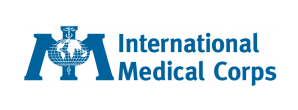
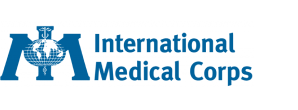
swipper

Changed region(s): [[0.0, 0.2182, 0.9362, 0.7909]]

diff --git a/src/sass/components/_support-Ukraine.scss b/src/sass/components/_support-Ukraine.scss
@@ -1,82 +1,29 @@
-//  .support__container {
-//    position: relative;
-
-//    width: 335px;
-//    height: 352px;
-
-//    background-image: radial-gradient(183.6% 183.01% at 59.76% -23.42%,
-//        #4f2ee8 18.03%,
-//        #ffffff 100%);
-//    box-shadow: 0px 10px 10px rgba(245, 245, 247, 0.1);
-//    border-radius: 16px;
-
-//    margin-left: auto;
-//    margin-right: auto;
-//    overflow: hidden;
-//  }
-
-//  .support__title {
-//    font-weight: 700;
-//    font-size: 28px;
-//    line-height: calc(32 / 28);
-//    letter-spacing: -0.04em;
-//    color: white;
-
-//    padding-left: 40px;
-//    padding-top: 24px;
-//  }
-
-//  .support__icon {
-//    position: absolute;
-//    top: 24px;
-//    margin-left: 12px;
-//  }
-
-//  .support__list {
-//    padding-top: 40px;
-//    padding-bottom: 16px;
-//  }
-
-//  .support_btn {
-//    display: flex;
-//    align-items: center;
-//    justify-content: center;
-
-//    position: absolute;
-//    bottom: 20px;
-//    left: 50%;
-//    transform: translateX(-50%);
-
-//    width: 38px;
-//    height: 38px;
-//    padding: 1px;
-//    border-radius: 20px;
-//    border: none;
-//  }
 
 .support__container {
   // margin: 0 auto;
   padding: 24px 40px 20px 40px;
+  margin-left: 24px;
   box-shadow: 0px 10px 10px rgba(245, 245, 247, 0.1);
   border-radius: 16px;
   max-width: 335px;
-   height: 352px;
+  height: 352px;
   height: 100%;
-  overflow-y: scroll;
+  // overflow-y: scroll;
   background-image: radial-gradient(183.6% 183.01% at 59.76% -23.42%,
-                #4f2ee8 18.03%,
-                #ffffff 100%);
-        
+      #4f2ee8 18.03%,
+      #ffffff 100%);
 
   @include _tablet {
     // height: 472px;
-    padding-bottom: 14px;
+     padding-bottom: 14px;
+    
   }
 
   @include _desktop {
     max-width: 356px;
-     height: 490px;
+    height: 490px;
     padding-bottom: 24px;
+    
   }
 }
 
@@ -94,13 +41,41 @@
 
 .support__list {
   margin-bottom: 16px;
+  overflow: hidden;
+  height: 188px;
 
   @include _tablet {
     margin-bottom: 32px;
+    height: 292px;
   }
 
   @include _desktop {
     margin-bottom: 40px;
+  
+  }
+}
+
+.support__wrapper {
+  position: relative;
+  width: 335px;
+  height: 352px;
+  padding: 24px 40px;
+  background: radial-gradient(183.6% 183.01% at 59.76% -23.42%, var(--color-blue) 18.03%, var(--color-white) 100%);
+  box-shadow: 0px 10px 10px rgba(245, 245, 247, 0.1);
+  border-radius: 16px;
+
+  @media screen and (max-width: 767.98px) {
+    margin: 0 auto;
+  }
+
+  @media screen and (min-width: 768px) {
+    width: 335px;
+    min-height: 472px;
+  }
+
+  @media screen and (min-width: 1440px) {
+    width: 356px;
+    height: 490px;
   }
 }
 
@@ -123,9 +98,12 @@
 
 .support__img {
   filter: grayscale(100%) brightness(0) invert(100%);
+  height: 32px;
 }
 
 .support__btn {
+  width: 32px;
+  height: 32px;
   display: flex;
   margin-left: auto;
   margin-right: auto;

diff --git a/src/js/render-support-Ukraine.js b/src/js/render-support-Ukraine.js
@@ -1,45 +1,39 @@
 
-
-import { arrayFunds } from "./support-list";
+ import { arrayFunds } from "./support-list";
 
 const supportListEl = document.querySelector('.js_support_list');
-const supportBtnEl = document.querySelector('.js_support_btn');
 
-// supportBtnEl.addEventListener('click', renderMoreFoundations);
 
-const markup = arrayFunds.map(({ img, title, url }, index) => {
-    const number = (index + 1).toString().padStart(2, '0');
-    
-    
-    return `<li class="support__item"><a href="${url}" class="support__link" aria-label="${title}" target="_blank" rel="noopener norefferer nofollow">
-    <p class="support__number">${number}</p><img class="support__img" src= ${img} alt="${title}"/></a></li>`
-});
-   console.log(markup);
-
-let startIndex = 0;
-
-renderMarkup(markup, startIndex, findEndIndex(startIndex));
-
-function renderMarkup (arr, itemsCountStart, itemsCountEnd) {
-    const markupToRender = arr.slice(itemsCountStart, itemsCountEnd).join('');
-    startIndex = findEndIndex(startIndex);
-    
-   supportListEl.insertAdjacentHTML('beforeend', markupToRender);
-
-   if (markup.length <= itemsCountEnd) {
-        supportBtnEl.style.display = 'none';
-        return
-    }
-
+export const renderSupportList = items => {
+  const listItems = items
+    .map((item, index) => {
+      const { title, url, img1x, img2x } = item;
+      const number = (index + 1).toString().padStart(2, '0');
+      return `
+           <li class="support__item">
+              
+              <a
+                target="_blank"
+                rel="noopener noreferrer"
+                aria-label="company icon"
+                class="support__link"
+                href="${url}"
+              >
+              <p class="support__number">${number}</p>
+                <img
+                  src="/src/images/support-images/save@1x.png"
+                  alt="${title}"
+                  class="support__img"
+                  srcset="
+                  ${img1x} 1x,
+                  ${img2x} 2x
+                  "
+                />
+              </a>
+              `;
+    })
+    .join('');
+  supportListEl.innerHTML = `${listItems}`;
 };
 
-
-
-function findEndIndex (value) {
-    if (window.innerWidth < 768) {
-        return value + 4;  
-    }
-    else {
-        return value + 6;
-    }
-}
+renderSupportList(arrayFunds);

diff --git a/src/js/swiper.js b/src/js/swiper.js
@@ -1,22 +1,51 @@
-import Swiper, { Navigation, Pagination } from 'swiper';
+// import Swiper, { Navigation, Pagination } from 'swiper';
 
 
 
- const createSwiperSliderSupport = sliderElm => {
-  const sliderId = sliderElm.dataset.id;
-  const swiper = new Swiper(`[data-id="${sliderId}"]`, {
-    
-    slidesPerView: 'auto',
-    spaceBetween: 20,
-    direction: 'vertical',
-    loop: true,
-    navigation: {
-      nextEl: `.swiper-button-next-${sliderId}`,
-      prevEl: `.swiper-button-prev-${sliderId}`,
-    },
+// const buildSwiperSliderSupport = sliderElm => {
+//   const sliderIdentifier = sliderElm.dataset.id;
+//   const swiper = new Swiper(`[data-id="${sliderIdentifier}"]`, {
+//     spaceBetween: 20,
+//     direction: 'vertical',
+//     slidesPerView: 'auto',
+//     loop: true,
+//     navigation: {
+//       nextEl: `.swiper-button-next-${sliderIdentifier}`,
+//       prevEl: `.swiper-button-prev-${sliderIdentifier}`,
+//     },
+//   });
+//   return swiper;
+// };
+
+
+import { renderSupportList } from './render-support-Ukraine';
+const imgSlides = document.querySelectorAll('.support__item');
+const sliderBtn = document.querySelector('.support__btn');
+
+let counter = 0;
+let moveDown = false;
+
+const verticalSlider = function () {
+  imgSlides.forEach(function (slide) {
+    slide.style.transform = `translateY(-${counter * 100}%)`;
   });
-  return swiper;
 };
 
-
-createSwiperSliderSupport();
+sliderBtn.addEventListener('click', function () {
+  if (moveDown) {
+    counter -= 2;
+    if (counter < 0) {
+      counter = 0;
+      moveDown = false;
+      sliderBtn.querySelector('.support__icon').style.transform = '';
+    }
+  } else {
+    counter += 2;
+    if (counter >= imgSlides.length) {
+      counter = imgSlides.length - 1;
+      moveDown = true;
+      sliderBtn.querySelector('.support__icon').style.transform = 'rotate(180deg)';
+    }
+  }
+  verticalSlider(renderSupportList);
+});

diff --git a/src/js/support-list.js b/src/js/support-list.js
@@ -22,46 +22,56 @@ export const arrayFunds = [
     title: 'Save the Children',
     url:
       'https://www.savethechildren.net/what-we-do/emergencies/ukraine-crisis',
-    img: saveTheChildren,
+    img1x: saveTheChildren,
+    img2x: saveTheChildren2,
   },
   {
     title: 'Project HOPE',
     url: 'https://www.projecthope.org/country/ukraine/',
-    img: projectHope,
+    img1x: projectHope,
+    img2x: projectHope2,
   },
   {
     title: 'UNITED24',
     url: 'https://u24.gov.ua/uk',
-    img: united24,
+    img1x: united24,
+    img2x: united242,
   },
   {
     title: 'International Medical Corps',
     url: 'https://internationalmedicalcorps.org/country/ukraine/',
-    img: internationalMedical,
+    img1x: internationalMedical,
+    img2x: internationalMedical2,
   },
   {
     title: 'Medicins Sans Frontieres',
     url: 'https://www.msf.org/ukraine',
-    img: medicinsSans,
+    img1x: medicinsSans,
+    img2x: medicinsSans2,
   },
   {
     title: 'RAZOM',
     url: 'https://www.razomforukraine.org/',
-    img: razom,
+    img1x: razom,
+    img2x: razom2,
   },
   {
     title: 'Action against hunger',
     url: 'https://www.actionagainsthunger.org/location/europe/ukraine/',
-    img: actionAgainst,
+    img1x: actionAgainst,
+    img2x: actionAgainst2,
+
   },
   {
     title: 'World vision',
     url: 'https://www.wvi.org/emergencies/ukraine',
-    img: worldVision,
+    img1x: worldVision,
+    img2x: worldVision2,
   },
   {
     title: 'Serhiy Prytula Charity Foundation',
     url: 'https://prytulafoundation.org/en',
-    img: sergiyPrytula,
+    img1x: sergiyPrytula,
+     img2x: sergiyPrytula2,
   }
 ];

diff --git a/src/partials/support.html b/src/partials/support.html
@@ -1,16 +1,25 @@
-<div class="support__container">
-    <h2 class="support__header"> Support Ukraine
-        <svg class="support__icon" width="20" height="32" aria-label="Emblem of Ukraine">
-            <!-- <use href="./images/icons.svg#icon-emblem"></use> -->
-        </svg>
-    </h2>
 
-    <ul class="support__list js_support_list">
-    </ul>
-
-    <button type="button" class="support__btn js_support_btn">
-        <svg class="support__btn_icon" width="20" height="20" aria-label="Show more">
-            <!-- <use href="./images/icons.svg#slider-arrow"></use> -->
-        </svg>
-    </button>
-</div>
+<section class="slider support__container container">
+    <div class="Support__wraper">
+       
+            <h2 class="slider__title support__header">Support Ukraine
+                <svg class="support__icon" width="20" height="32" aria-label="Emblem of Ukraine">
+                    <use href="./images/sprite.svg#icon-emblem"></use>
+                </svg>
+            </h2>
+            
+                <div class="slider">
+                    <ul class="support__list swiper-wrapper js_support_list"></ul>
+               
+                <div class="slider-pagination">
+                    <button class="swiper-button-next  support__btn">
+                        <svg class="support__btn_icon" width="20" height="20">
+                            <use href="./images/sprite.svg#sup-arrow"></use>
+                        </svg>
+                    </button>
+                
+             </div>
+            
+        </div>
+    </div>
+</section>
